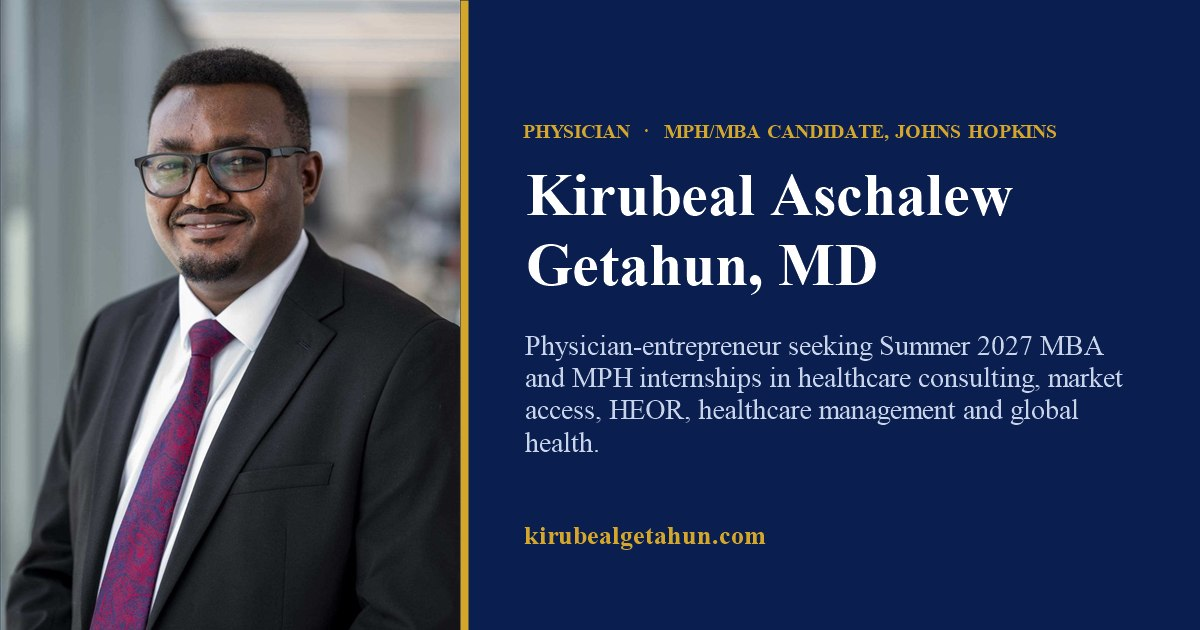
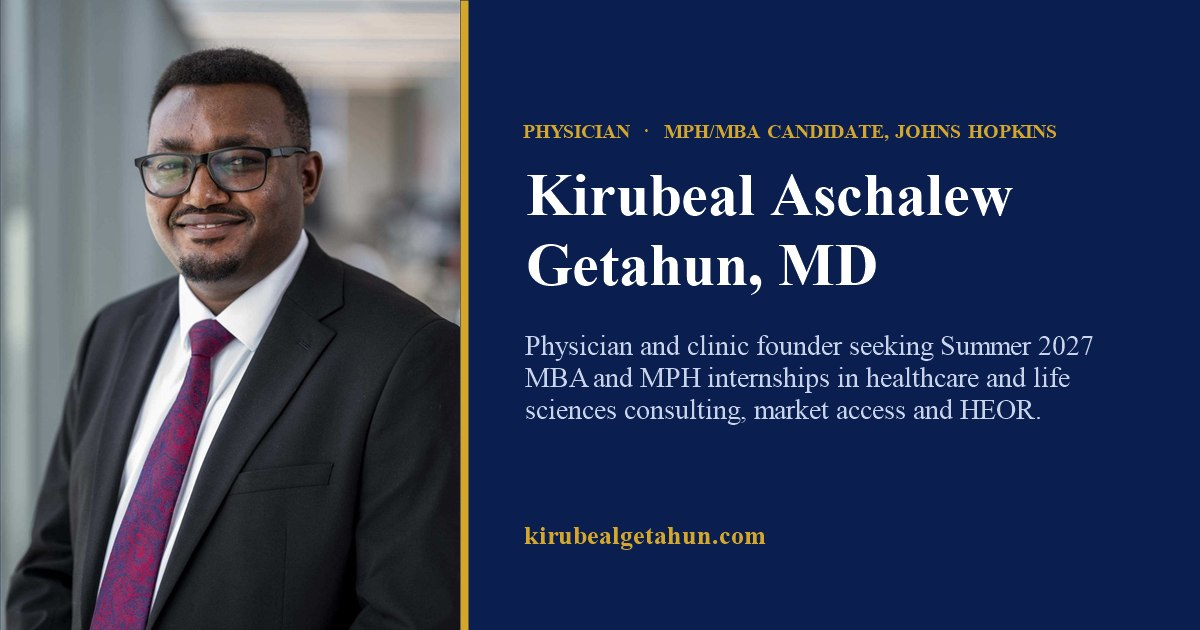
Update site Sat 11/07/2026  7:58:34.88

Changed region(s): [[0.4317, 0.5127, 0.925, 0.6635], [0.4317, 0.6937, 0.4933, 0.7238]]

diff --git a/content.js b/content.js
@@ -3,14 +3,12 @@ window.SITE_CONTENT = {
     "name": "Kirubeal Aschalew Getahun",
     "credential": "MD",
     "eyebrow": "Physician · MPH/MBA Candidate, Johns Hopkins",
-    "intro": "Physician-entrepreneur with 4.5 years in clinical practice and healthcare management. I built and ran a two-site outpatient clinic in rural Ethiopia, owning the P&L and pricing and growing it to 41,000+ patient visits. Now a Johns Hopkins MPH/MBA candidate, I'm seeking roles in healthcare and life sciences consulting, market access, HEOR and healthcare management, and in global health.",
-    "seekingLabel": "Seeking Summer 2027 MBA and MPH internships with a healthcare focus in",
+    "intro": "Physician and clinic founder. I built and ran a two-site clinic in rural Ethiopia, owning pricing and the P&L through 41,000+ patient visits. Now a Johns Hopkins MPH/MBA candidate bringing that operating experience to healthcare strategy, market access and HEOR, from US health systems to global health.",
+    "seekingLabel": "Seeking Summer 2027 MBA and MPH internships in",
     "seeking": [
       "Healthcare & life sciences consulting",
       "Market access",
-      "HEOR",
-      "Healthcare management",
-      "Global health"
+      "HEOR"
     ],
     "photo": "images/headshot.jpg",
     "photoAlt": "Portrait of Kirubeal Getahun in a dark suit and red tie",
@@ -32,11 +30,11 @@ window.SITE_CONTENT = {
     },
     {
       "value": "Medicare",
-      "label": "cost model: limb-saving implant vs. amputation"
+      "label": "cost-effectiveness model I built: limb-saving implant vs. amputation"
     },
     {
       "value": "+$2.3M",
-      "label": "NPV in our case-competition acquisition recommendation"
+      "label": "modeled NPV in our case-competition acquisition recommendation"
     }
   ],
   "about": {
@@ -44,12 +42,9 @@ window.SITE_CONTENT = {
     "menuLabel": "About",
     "title": "Physician-entrepreneur on the business side of care",
     "paragraphs": [
-      "I'm a physician-entrepreneur with 4.5 years in clinical practice and healthcare management. I trained as a doctor at Jimma University in Ethiopia, graduating with distinction in 2021. For my MD thesis I led a community study of undernutrition in 358 children under five, designing the survey, managing field data collection and running the statistical analysis.",
-      "I started in general practice at two private outpatient clinics, Sine-Hiwot in Addis Ababa and Burkitu in rural Hasasa. Working in both showed me how independent practices actually run: staffing, supplies, pricing and patient flow, and why a model that works in the city often breaks down in a rural town.",
-      "At Ginnir General Hospital I took on emergency operations alongside clinical work. We raised the emergency department's compliance with national standards from 31% to 60% and cut wait times from 10–15 minutes to 6. I led infection-control and quality improvement across 13 departments, and coordinated a multi-partner cholera response that treated 2,200 patients in about two months at a 0.4% case fatality rate.",
-      "In 2023 I founded Harme Clinic, a maternal and child health practice in Delo-Sebro, as majority shareholder. Over three years I grew it from one site to two and from 6 to 17 staff, with 41,000+ patient visits. It became the referral point for three nearby health centers and brought in the area's first electronic health records. I set prices and owned the P&L: revenue grew about 40% over first-year levels while the pre-tax margin held at 35–40%.",
-      "I'm now completing a dual MPH (Bloomberg School of Public Health) and MBA (Carey Business School) at Johns Hopkins, where I hold a 3.82 GPA and an $80,000 merit scholarship. My work here includes a Monte Carlo cost-effectiveness model for a medical device startup, a 20,000-run launch simulation for the Gilead Pharma Case Competition, a semifinal run at the Midwest Healthcare Case Competition, and leading a pro bono market assessment for the Society for Pediatric Anesthesia. I'm also Medical Partner and Lead for Market Access and Strategy at Avinah Health, a digital health venture for African health systems.",
-      "Now focused on healthcare and life sciences consulting, market access, HEOR, healthcare management and global health."
+      "I trained as a doctor at Jimma University in Ethiopia and spent 4.5 years in clinical practice and healthcare management: in private clinics in Addis Ababa and rural Hasasa, then running emergency operations at Ginnir General Hospital. Along the way I saw how independent practices actually run (staffing, supplies, pricing and patient flow) and why a model that works in the city often breaks down in a rural town.",
+      "In 2023 I put that to work and founded Harme Clinic, which I ran for three years (case study below).",
+      "At Johns Hopkins I'm adding formal training in public health and business, and using it on a cost-effectiveness model for a medical device startup, plus a pharma launch plan and an acquisition valuation in case competitions. My focus is healthcare strategy, market access and HEOR, from US health systems to global health."
     ],
     "note": "Languages: English, Amharic (native), Afan Oromo."
   },
@@ -106,7 +101,7 @@ window.SITE_CONTENT = {
         "subtitle": "Baltimore medical device startup · Health Innovation and Evaluation",
         "paragraphs": [
           "BlueHealer’s implant aims to save the limbs of patients with chronic limb-threatening ischemia who would otherwise face amputation (about 150,000 non-traumatic lower-limb amputations a year in the US).",
-          "My Monte Carlo model (Medicare basis, 20,000 draws) found the implant roughly cost-neutral against amputation, with +0.83 QALYs and +$83,708 net monetary benefit per patient (at $100,000 per QALY). I also wrote the competitor analysis and the 6-month to 5-year earnings projections for the pitch."
+          "The implant came out roughly cost-neutral against amputation, with a large quality-of-life gain: +0.83 QALYs and +$83,708 net monetary benefit per patient (at $100,000 per QALY). These are modeled estimates from my Monte Carlo model on a Medicare basis (20,000 draws). I also wrote the competitor analysis and the 6-month to 5-year earnings projections for the pitch."
         ],
         "chips": [
           "Monte Carlo",
@@ -242,7 +237,7 @@ window.SITE_CONTENT = {
         "subtitle": "Medical Affairs launch plan for an AML therapy · Team of four",
         "paragraphs": [
           "Ten months before the FDA decision, how should Medical Affairs win 14 of 20 priority health systems and 18 of 20 payers within a year of launch? We recommended a tiered, payer-weighted launch.",
-          "I built the Monte Carlo simulation (20,000 launches per plan), the hypothesis tree and the MECE issue structure. It showed the hospital goal was safe (98%) but payer coverage was the binding constraint (26%), which is why the plan weights payers."
+          "Why payers: the hospital goal was nearly safe (met in 98% of simulated launches), but the payer goal was met in only 26%, so payer coverage would decide the launch. I built that simulation (20,000 launches per plan) and the hypothesis tree that structured our analysis."
         ],
         "chips": [
           "Market access",
@@ -304,7 +299,7 @@ window.SITE_CONTENT = {
         "role": "",
         "subtitle": "Pharma acquisition and product-line case · Team of four",
         "paragraphs": [
-          "Should a biotech acquire a struggling antithrombotic drug for peripheral artery disease? We said yes, on conditions: $500K upfront plus a 5% royalty, worth about +$2.3M in NPV, with quarterly gates to stop spending if demand fell short.",
+          "Should a biotech acquire a struggling antithrombotic drug for peripheral artery disease? We said yes, on conditions: $500K upfront plus a 5% royalty, worth about +$2.3M in modeled NPV, with quarterly gates to stop spending if demand fell short.",
           "I built the prediction model and presented the commercial strategy, the 12-month roadmap and the risk plan."
         ],
         "chips": [

diff --git a/index.html b/index.html
@@ -4,14 +4,14 @@
   <meta charset="UTF-8" />
   <meta name="viewport" content="width=device-width, initial-scale=1.0" />
   <title>Kirubeal Getahun, MD | Portfolio</title>
-  <meta name="description" content="Kirubeal Aschalew Getahun, MD. Physician, clinic founder and Johns Hopkins MPH/MBA candidate seeking Summer 2027 MBA and MPH internships in healthcare consulting, market access, HEOR, healthcare management and global health." />
+  <meta name="description" content="Kirubeal Aschalew Getahun, MD. Physician, clinic founder and Johns Hopkins MPH/MBA candidate seeking Summer 2027 MBA and MPH internships in healthcare and life sciences consulting, market access and HEOR, from US health systems to global health." />
   <link rel="canonical" href="https://kirubealgetahun.com/" />
   <link rel="icon" type="image/svg+xml" href="favicon.svg" />
   <!-- Link preview card (LinkedIn, email, texts) -->
   <meta property="og:type" content="website" />
   <meta property="og:url" content="https://kirubealgetahun.com/" />
   <meta property="og:title" content="Kirubeal Aschalew Getahun, MD | Portfolio" />
-  <meta property="og:description" content="Physician-entrepreneur and Johns Hopkins MPH/MBA candidate seeking Summer 2027 MBA and MPH internships in healthcare consulting, market access, HEOR, healthcare management and global health." />
+  <meta property="og:description" content="Physician, clinic founder and Johns Hopkins MPH/MBA candidate seeking Summer 2027 MBA and MPH internships in healthcare and life sciences consulting, market access and HEOR." />
   <meta property="og:image" content="https://kirubealgetahun.com/images/og-card.jpg" />
   <meta property="og:image:width" content="1200" />
   <meta property="og:image:height" content="630" />
